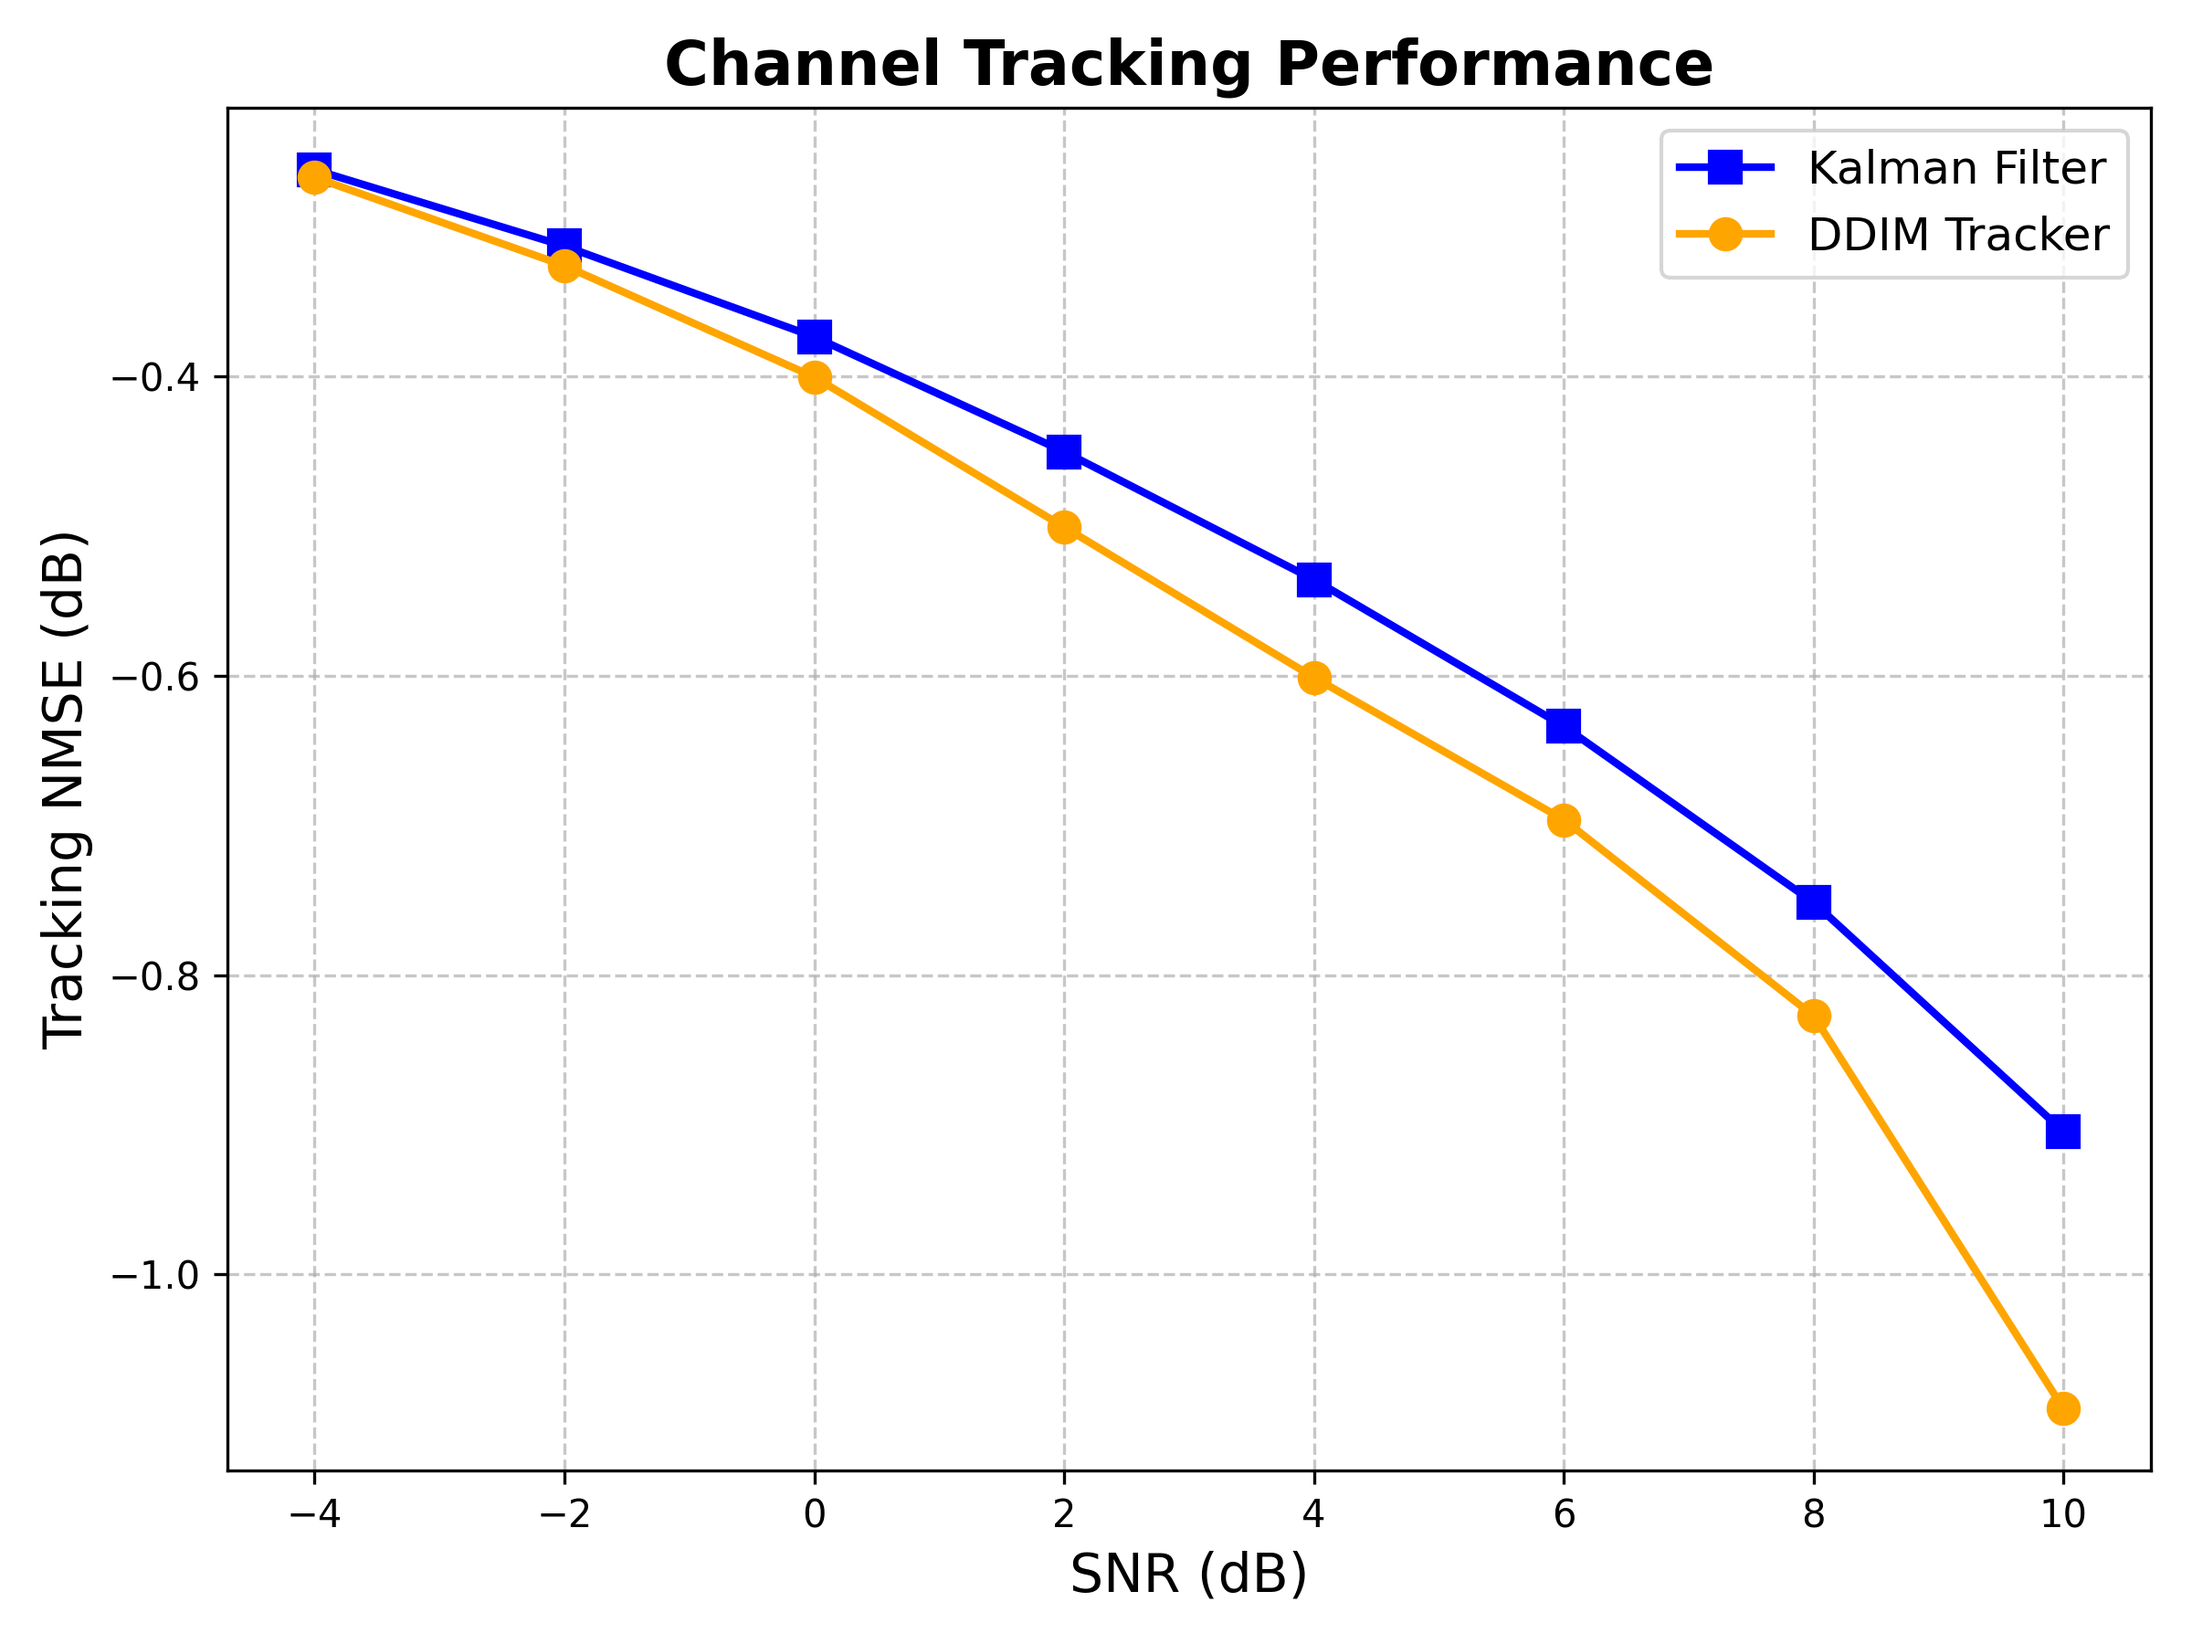
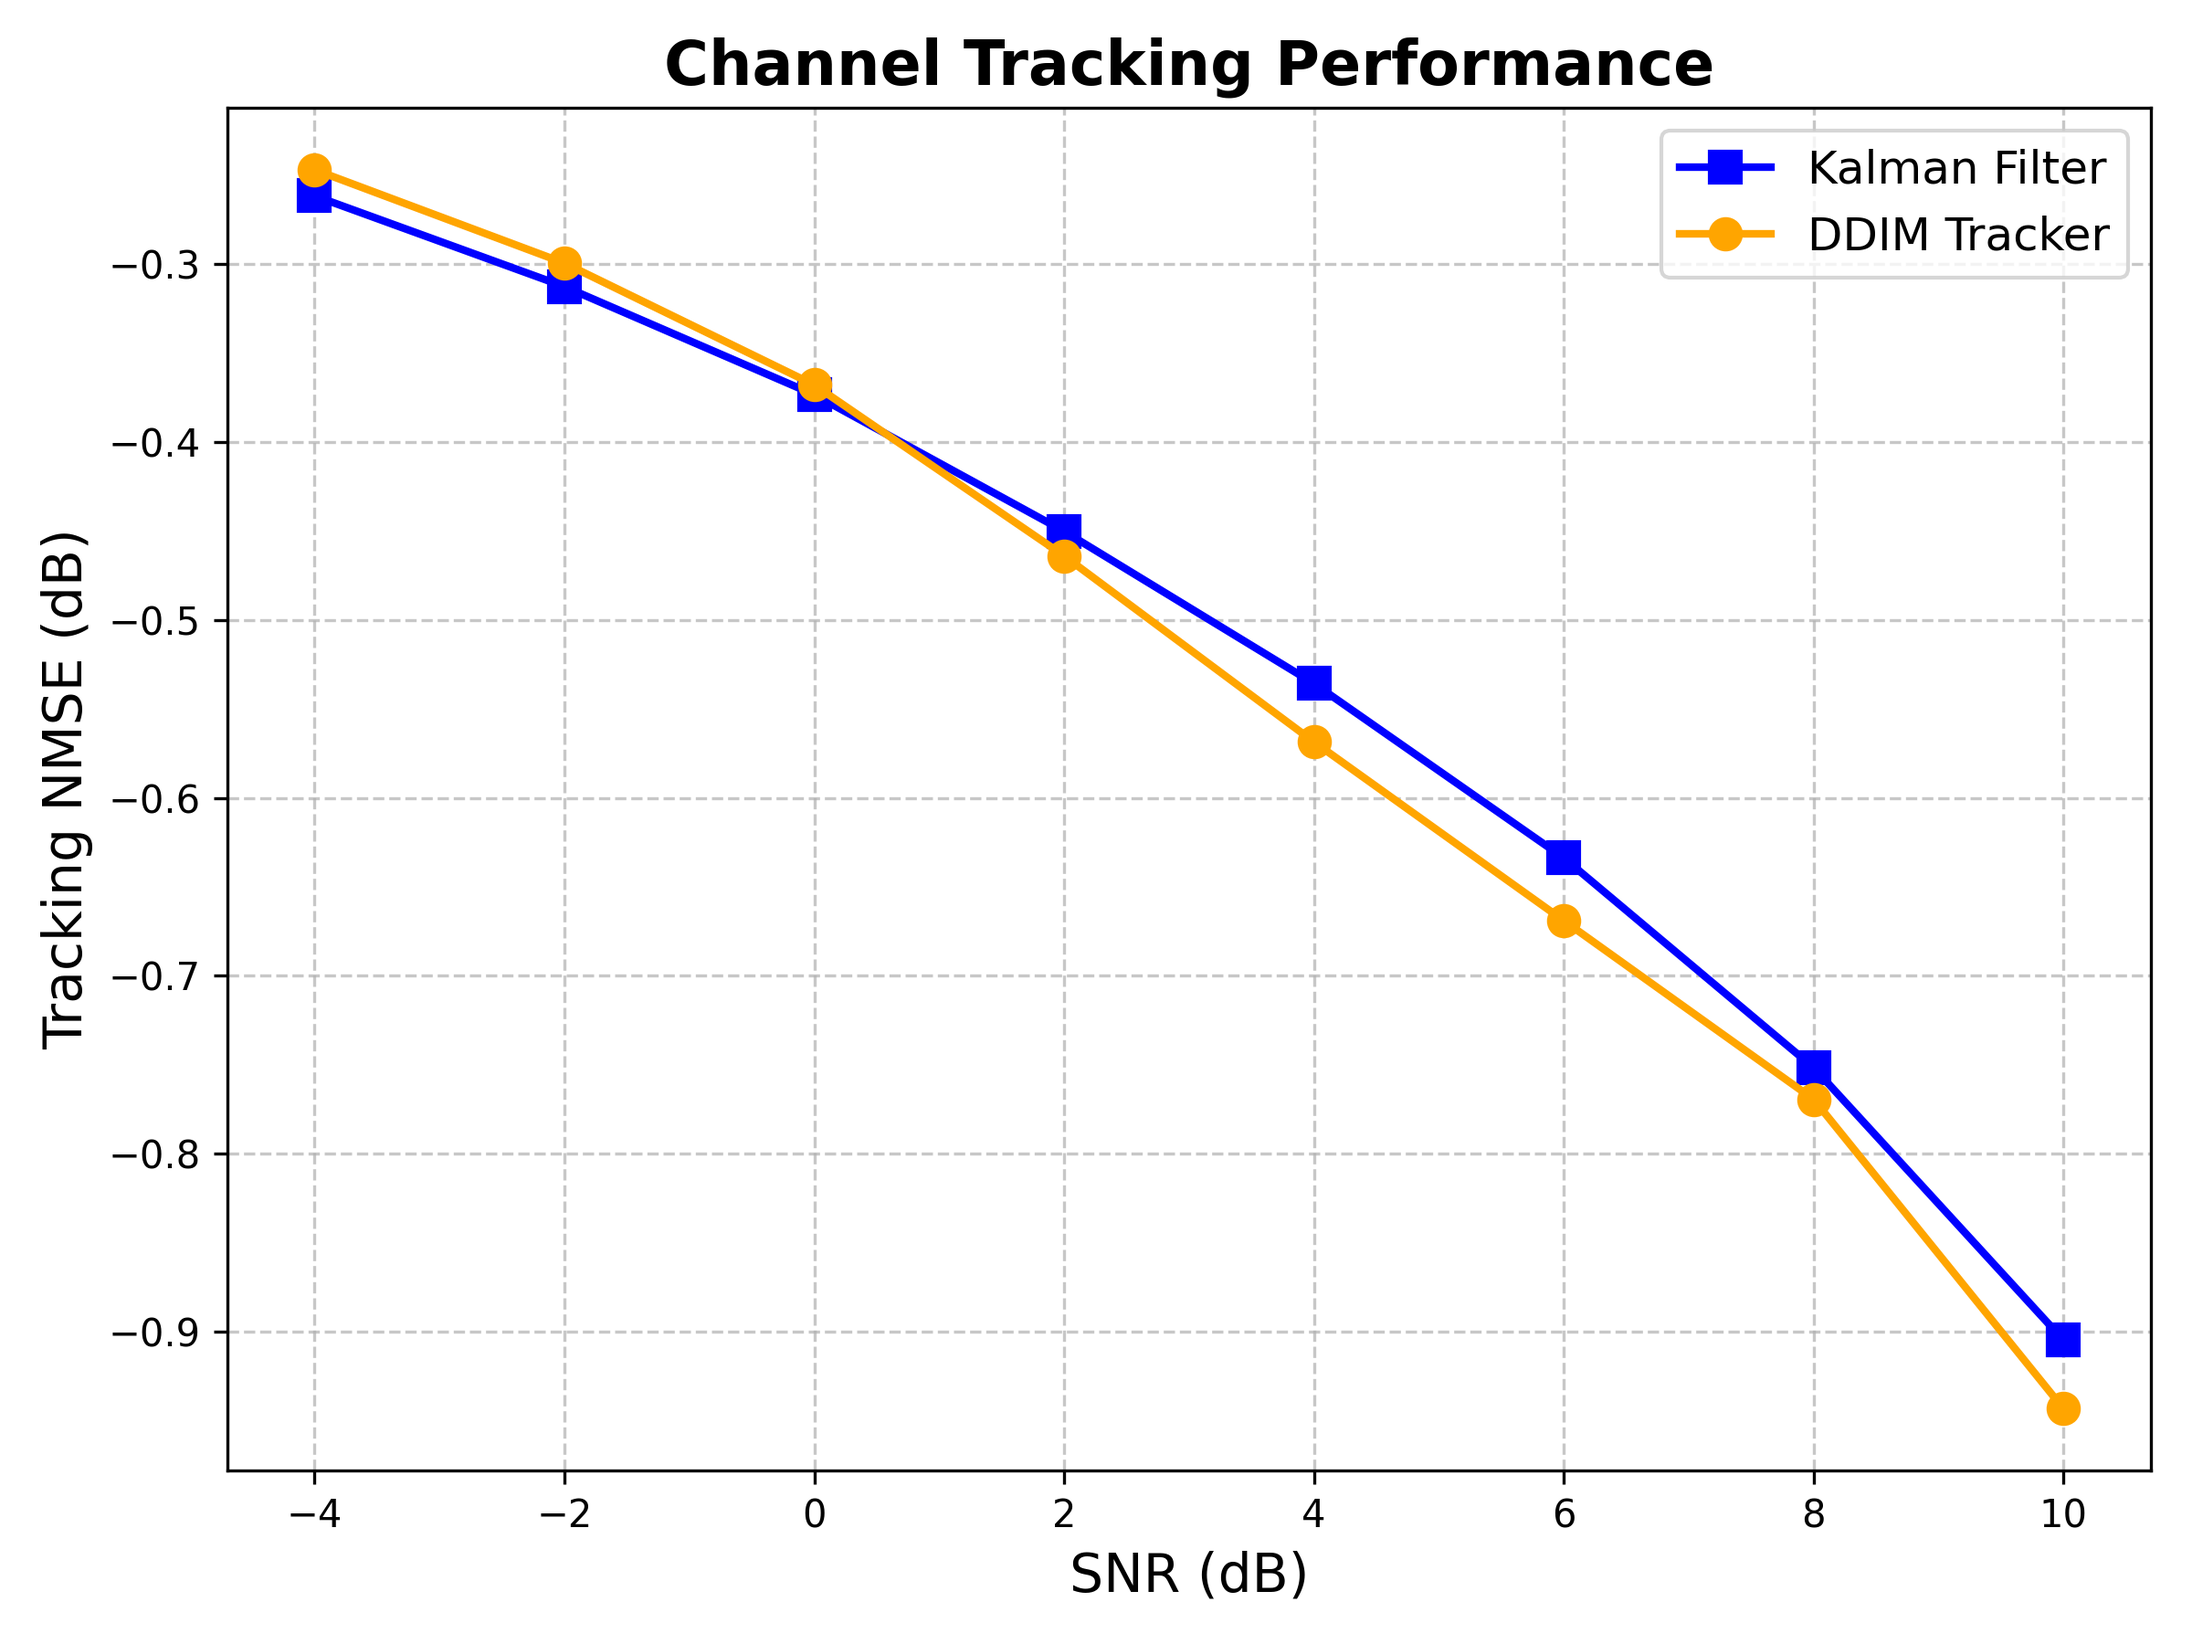
feat: back to use L=0.53

diff --git a/small_scale_channel_tracking/main_DDIM_tracker.py b/small_scale_channel_tracking/main_DDIM_tracker.py
@@ -38,7 +38,7 @@ NUM_SAMPLING_STEPS = 1000
 # For rho=0.995 (very accurate prediction), a small value (15) is perfect. 
 # If tracking faster users (e.g. rho=0.8), you would increase this.
 K_START = 100
-GUIDANCE_LAMBDA = 0.7
+GUIDANCE_LAMBDA = 0.53
 # -----------------------------------
 
 MODEL_WEIGHT_FILE_NAME = f"Tracker_DDIM_{FREQ_GHZ}GHz_rT{R_T}_{MODEL_TYPE}_lr{LR:.0e}.pth"
